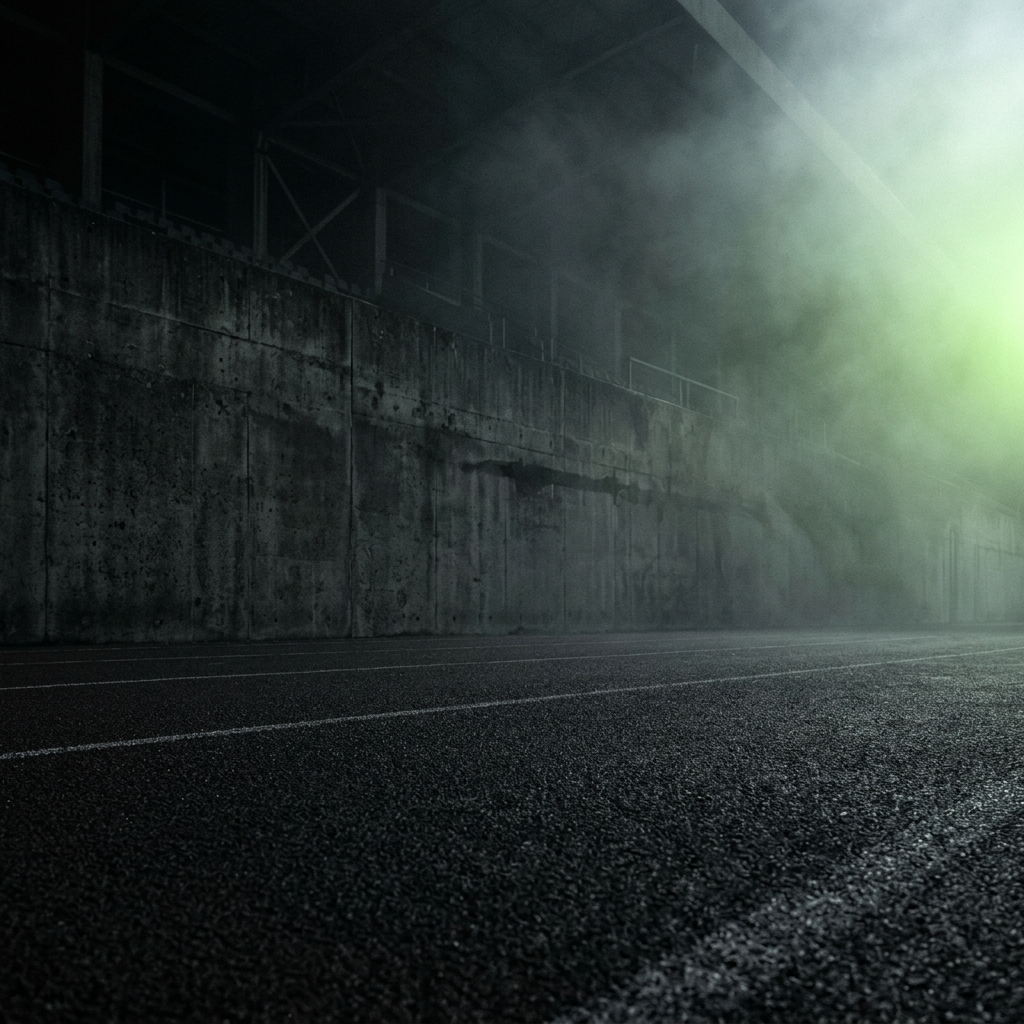
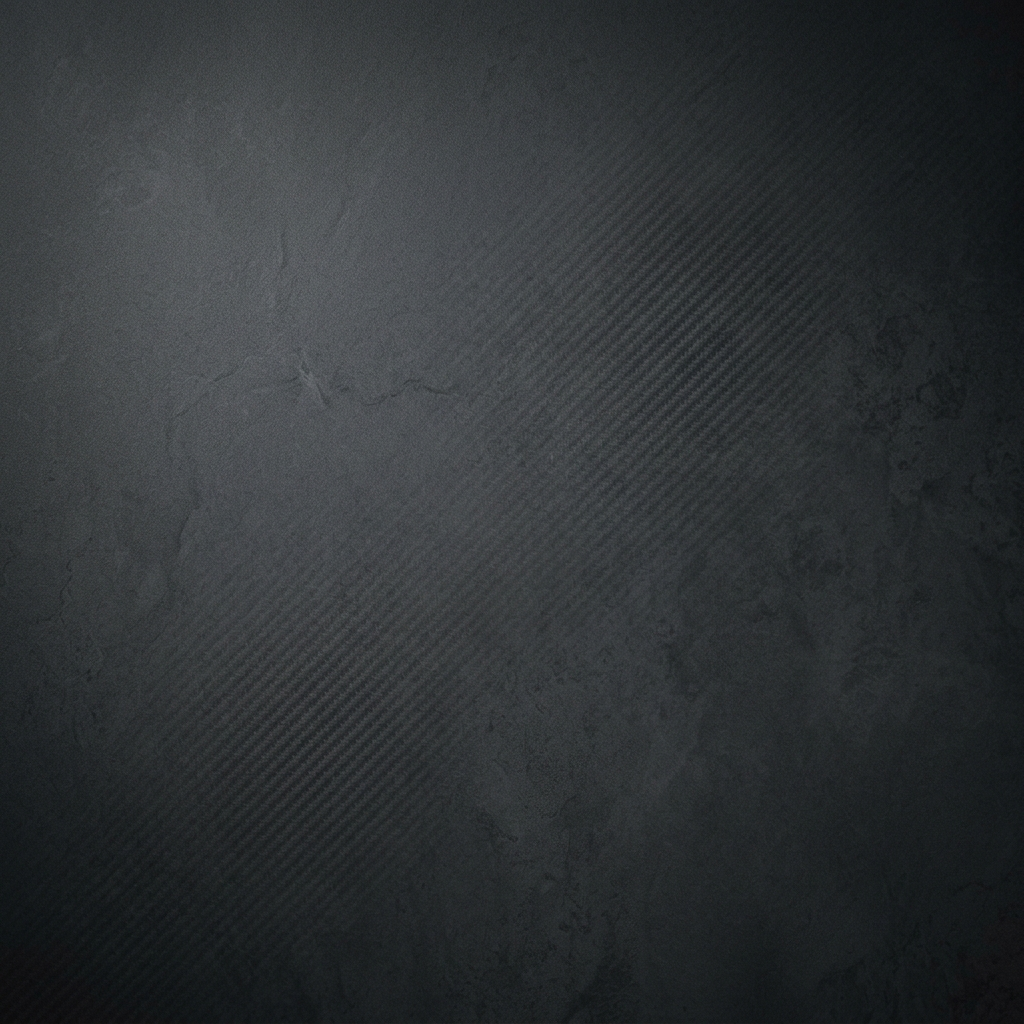
style: replace stadium hero images with home tech lifestyle graphics

diff --git a/index.html b/index.html
@@ -79,7 +79,7 @@
             <!-- Hero Banner -->
             <div class="hero-banner">
                 <div class="hero-image-wrapper">
-                    <img src="assets/hero_scenery.png" alt="Dynamic athletic track neon background" class="hero-image">
+                    <img src="assets/hero_lifestyle.png" alt="Checkbude24 Premium Lifestyle Hero" class="hero-image">
                 </div>
                 <div class="hero-content">
                     <p class="hero-subtitle-tag" data-i18n="hero_tag">Ehrlich &amp; Unabhängig</p>
@@ -321,7 +321,7 @@
                     <div class="collection-section">
                         <div class="collection-hero-card">
                             <div class="collection-hero-image">
-                                <img src="assets/hero_scenery.png" alt="Velocity Performance Collection">
+                                <img src="assets/hero_lifestyle.png" alt="Checkbude24 Curated Collections">
                             </div>
                             <div class="collection-hero-content">
                                 <span class="collection-tag" data-i18n="coll_noe_tag">Favoriten</span>
@@ -396,7 +396,7 @@
                     </div>
                     <div class="about-visuals">
                         <div class="about-image-wrapper">
-                            <img src="assets/hero_scenery.png" alt="Athletic training session" class="about-main-image">
+                            <img src="assets/hero_lifestyle.png" alt="Checkbude24 Product Testing and Scouting" class="about-main-image">
                         </div>
                     </div>
                 </div>